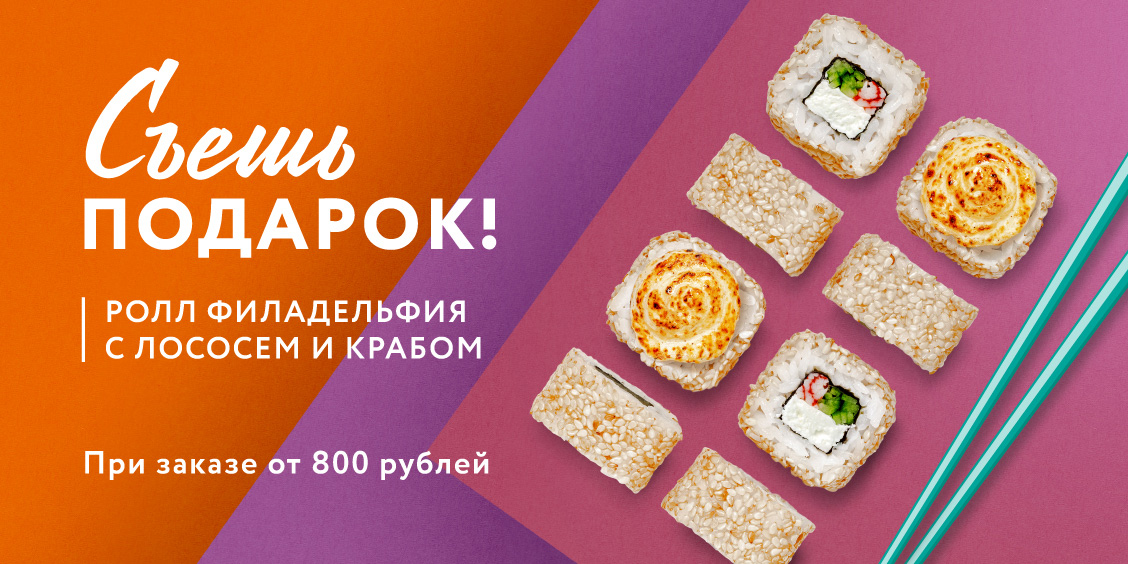
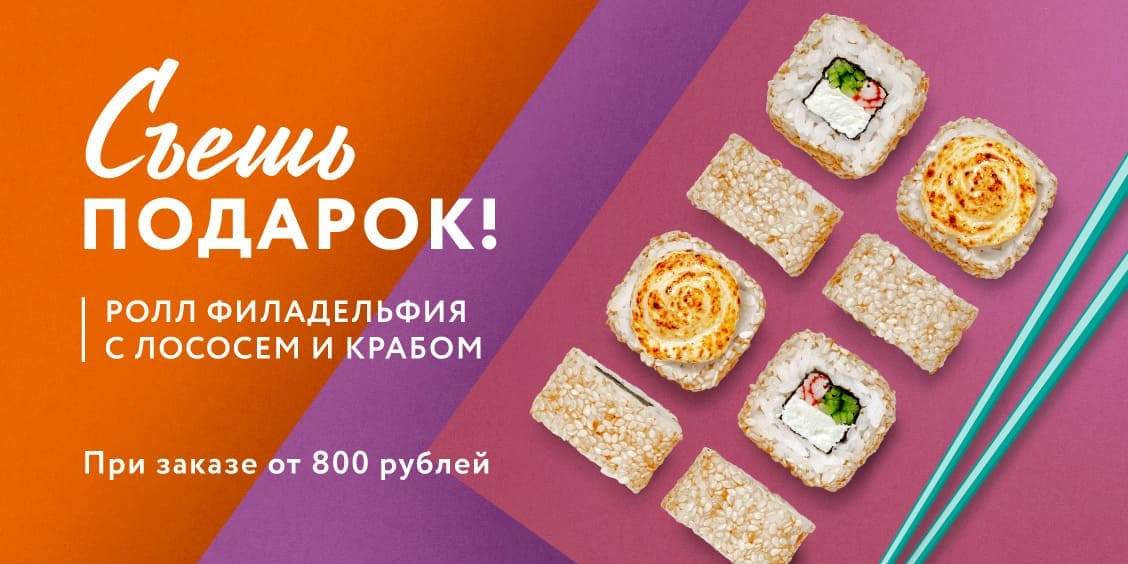
Commit 27.3 (прописал рендер промо-баннеров)

diff --git a/src/components/DiscountsBanners.jsx b/src/components/DiscountsBanners.jsx
@@ -1,9 +1,14 @@
 import React from 'react';
 import PropTypes from 'prop-types';
 
-import {promo3} from '../assets/promo-bunners/';
+function DiscountsBanners({promoItems, onClickActivePromo, activeIndex}) {
+  const promoImgArr = promoItems.map((obj) => obj.promoURL);
+  const promoImg = promoImgArr[activeIndex];
+  console.log(promoImg);
 
-function DiscountsBanners({promoItems, onClickActivePromo}) {
+  const onSelectActivePromo = (index) => {
+    onClickActivePromo(index);
+  };
   return (
     <section className='discounts-bunners'>
       <h2 className='visually-hidden'>Баннеры проходящих акций и скидок</h2>
@@ -12,12 +17,12 @@ function DiscountsBanners({promoItems, onClickActivePromo}) {
         <li className='discounts-bunners__bunner-item'>
           <img
             className='discounts-bunners__bunner-mob'
-            src={promo3} alt=''/>
+            src={promoImg} alt=''/>
         </li>
         <li className='discounts-bunners__bunner-item'>
           <img
             className='discounts-bunners__bunner-desktop'
-            src={promo3} alt=''/>
+            src={promoImg} alt=''/>
         </li>
       </ul>
 
@@ -29,25 +34,16 @@ function DiscountsBanners({promoItems, onClickActivePromo}) {
                 .map((_, index) =>
                   <li
                     key={index}
-                    className='discounts-bunners__toggle'
-                    onClick={() => onClickActivePromo(index)} >
+                    className={
+                      activeIndex === index ?
+                      `discounts-bunners__toggle 
+                      discounts-bunners__toggle_current` :
+                      'discounts-bunners__toggle'
+                    }
+                    onClick={() => onSelectActivePromo(index)} >
                   </li>,
                 )
           }
-          {/* <li className='discounts-bunners__toggle'>
-            <button className='visually-hidden'></button>
-          </li>
-          <li
-            className='discounts-bunners__toggle
-            discounts-bunners__toggle_current'>
-            <button className='visually-hidden'></button>
-          </li>
-          <li className='discounts-bunners__toggle'>
-            <button className='visually-hidden'></button>
-          </li>
-          <li className='discounts-bunners__toggle'>
-            <button className='visually-hidden'></button>
-          </li> */}
         </ul>
       </div>
     </section>
@@ -59,4 +55,5 @@ export default DiscountsBanners;
 DiscountsBanners.propTypes = {
   promoItems: PropTypes.array.isRequired,
   onClickActivePromo: PropTypes.func.isRequired,
+  activeIndex: PropTypes.number.isRequired,
 };

diff --git a/src/pages/Home.jsx b/src/pages/Home.jsx
@@ -34,7 +34,7 @@ const Home = () => {
   const {category} = useSelector(({category}) => category);
   const isLoaded = useSelector(({products}) => products.isLoaded);
   const promoItems = useSelector(({promo}) => promo.promoItems);
-  // const activePromo = useSelector(({promo}) => promo.activePromoIndex);
+  const activePromoIndex = useSelector(({promo}) => promo.activePromoIndex);
 
   React.useEffect(() => {
     dispatch(fetchProducts(category));
@@ -42,7 +42,7 @@ const Home = () => {
 
   React.useEffect(() => {
     fetchPromo(dispatch);
-  }, []);
+  }, [activePromoIndex]);
 
   const onSelectCategory = (index) => {
     dispatch(setCategory(index));
@@ -83,6 +83,7 @@ const Home = () => {
             <DiscountsBanners
               promoItems={promoItems}
               onClickActivePromo={onSelectActivePromo}
+              activeIndex={activePromoIndex}
               className='home__banner-img'/>
           </div>
           <div className='home__information-wrapper'>

diff --git a/README.md b/README.md
@@ -91,3 +91,7 @@ _ProductBlock_ (переименовал компонент _RollSushiBlock_ в 
 
 * __Commit 27.2__ - сделал вывод кнопок переключения промо-баннеров, количество которых зависит от общего количества промо-баннеров полученнных с сервера. 
 Добавил в ***Redux*** выбор индекса активного баннера при нажатии на круглые кнопки переключения этих баннеров;
+
+* __Commit 27.3__ - прописал рендер промо-баннеров, при нажатии на кнопки переключения сделал показ нужного промо-баннера согласно нажатой кнопке.
+Сами файлы изображений загрузил на свой Яндекс.Диск и в JSON-файле базы данных прописал их ссылки (из-за этого есть небольшая задержка при переключении
+изображений);
